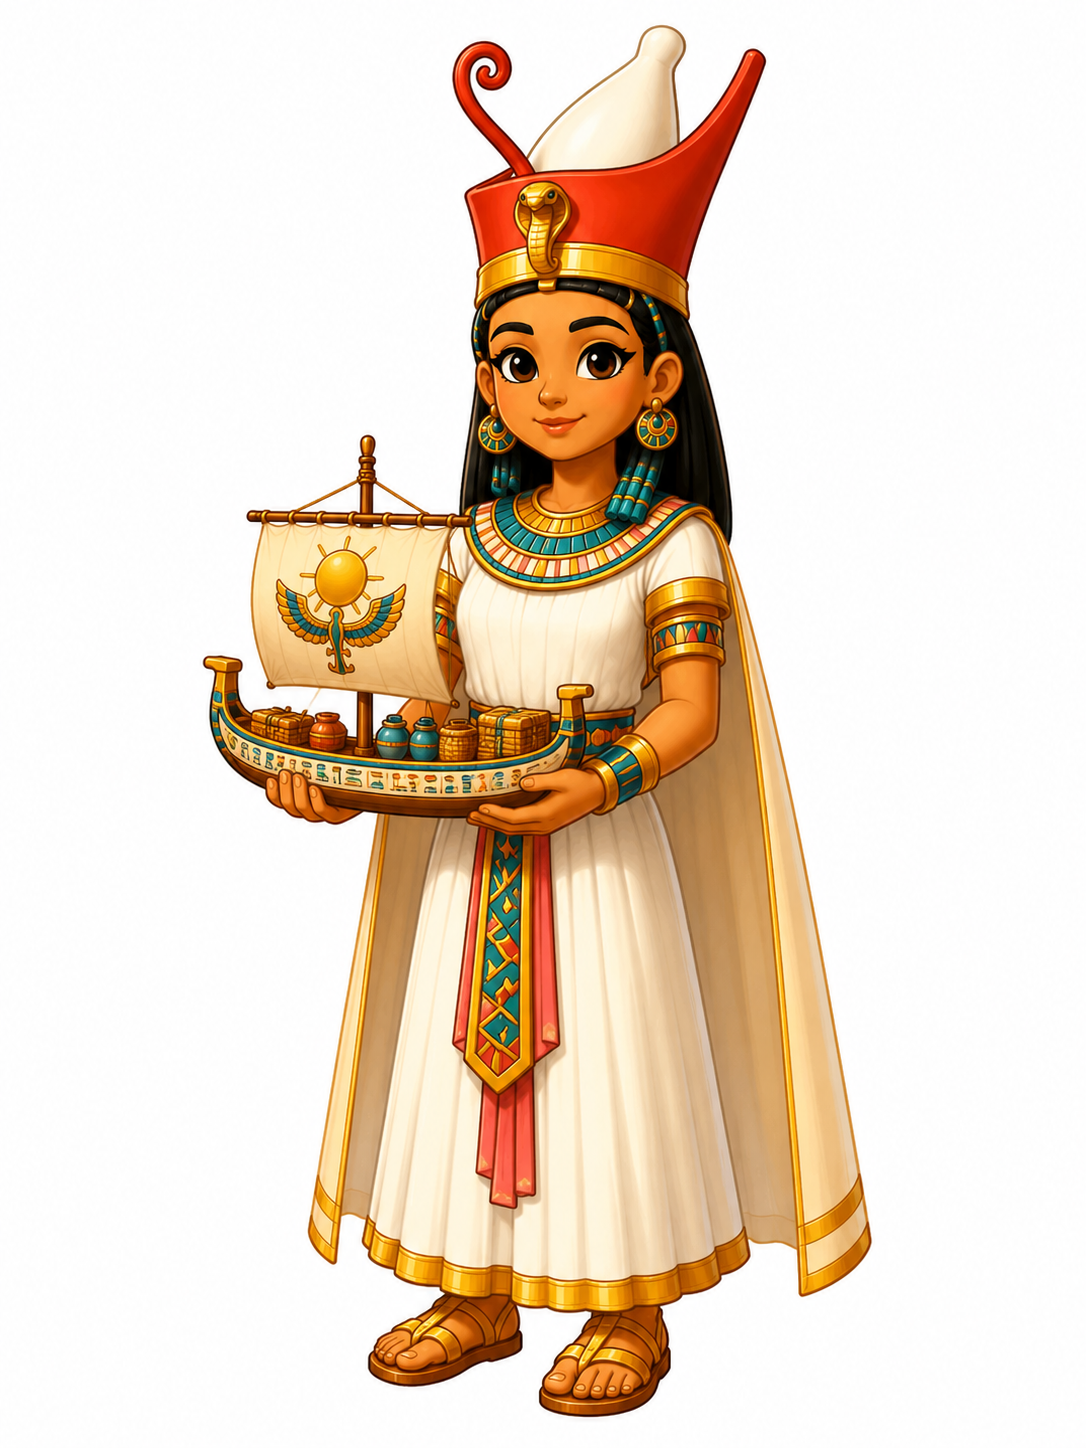
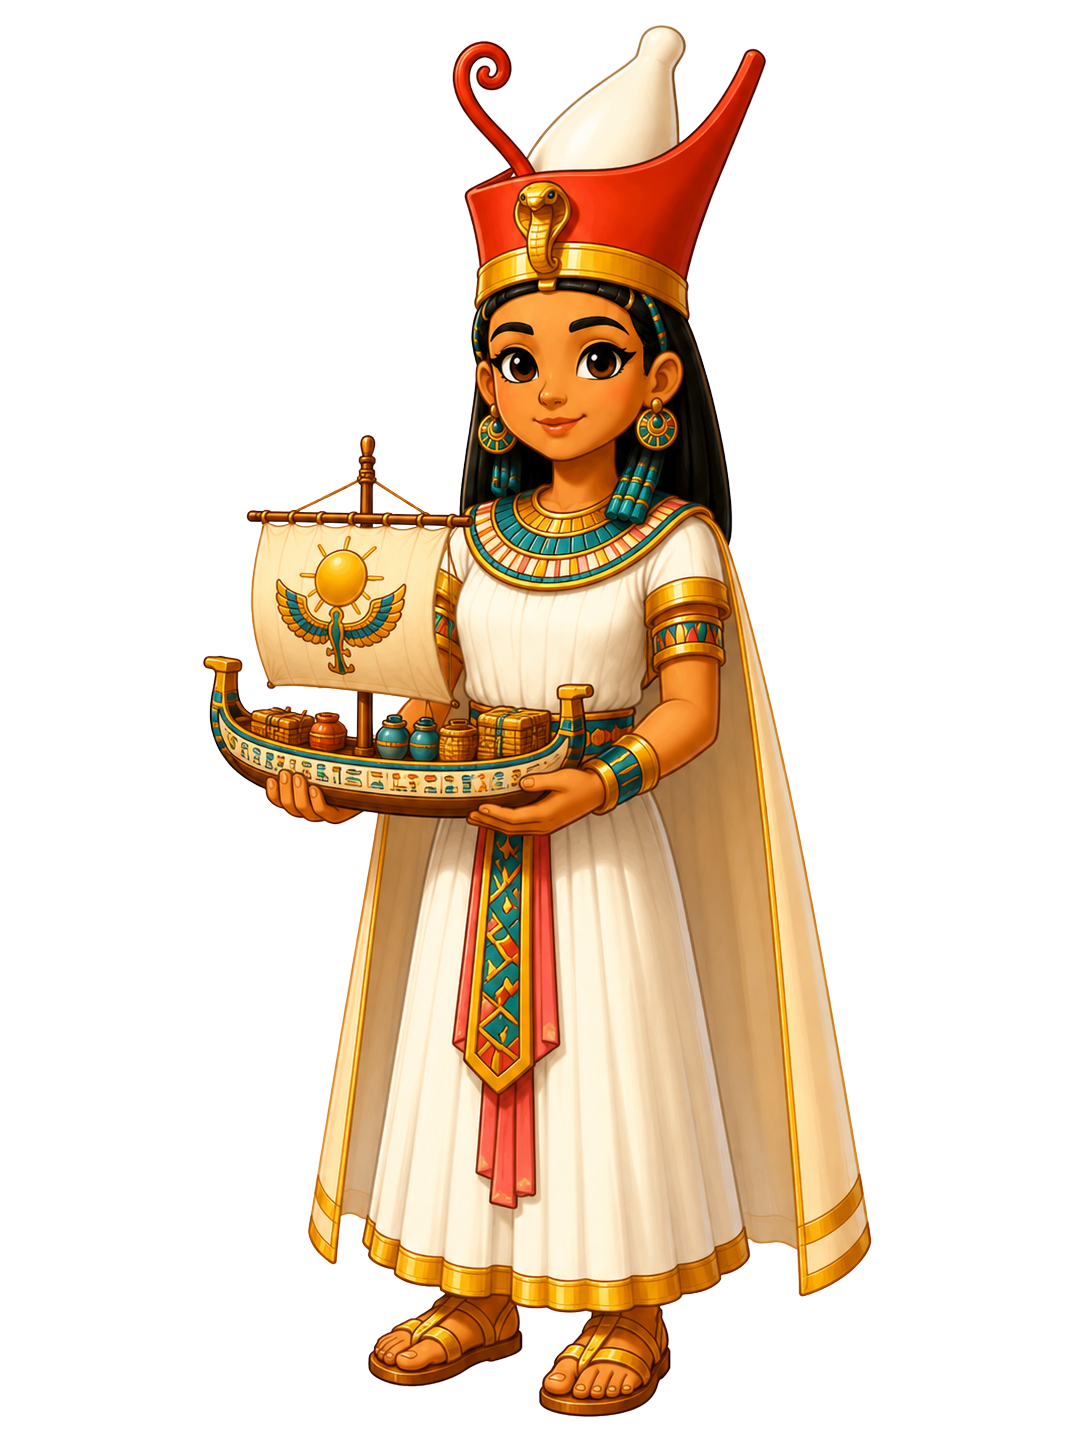
Add Thutmose_Pic.png to shared components

Changed region(s): [[0.4254, 0.0311, 0.4558, 0.0622], [0.3646, 0.3419, 0.395, 0.3729], [0.2735, 0.3419, 0.3039, 0.3729]]

diff --git a/src/data/avatars.jsx b/src/data/avatars.jsx
@@ -27,7 +27,7 @@ export const AVATARS = [
   { id: 'girl',    type: 'image', label: 'بنت',     src: girlImage },
   { id: 'Horus',   type: 'image',  label: 'هوروس',   src: Horus },
   { id: 'Isis',    type: 'image',  label: 'إيزيس',   src: Isis },
-  { id: 'Thutmose', type: 'image',  label: 'توتموس', src: Thutmose },
+  { id: 'Thutmose', type: 'image',  label: 'تحوتمس', src: Thutmose },
   { id: 'Hatshepsut', type: 'image',  label: 'حتشبسوت', src: Hatshepsut },
 ];
 
